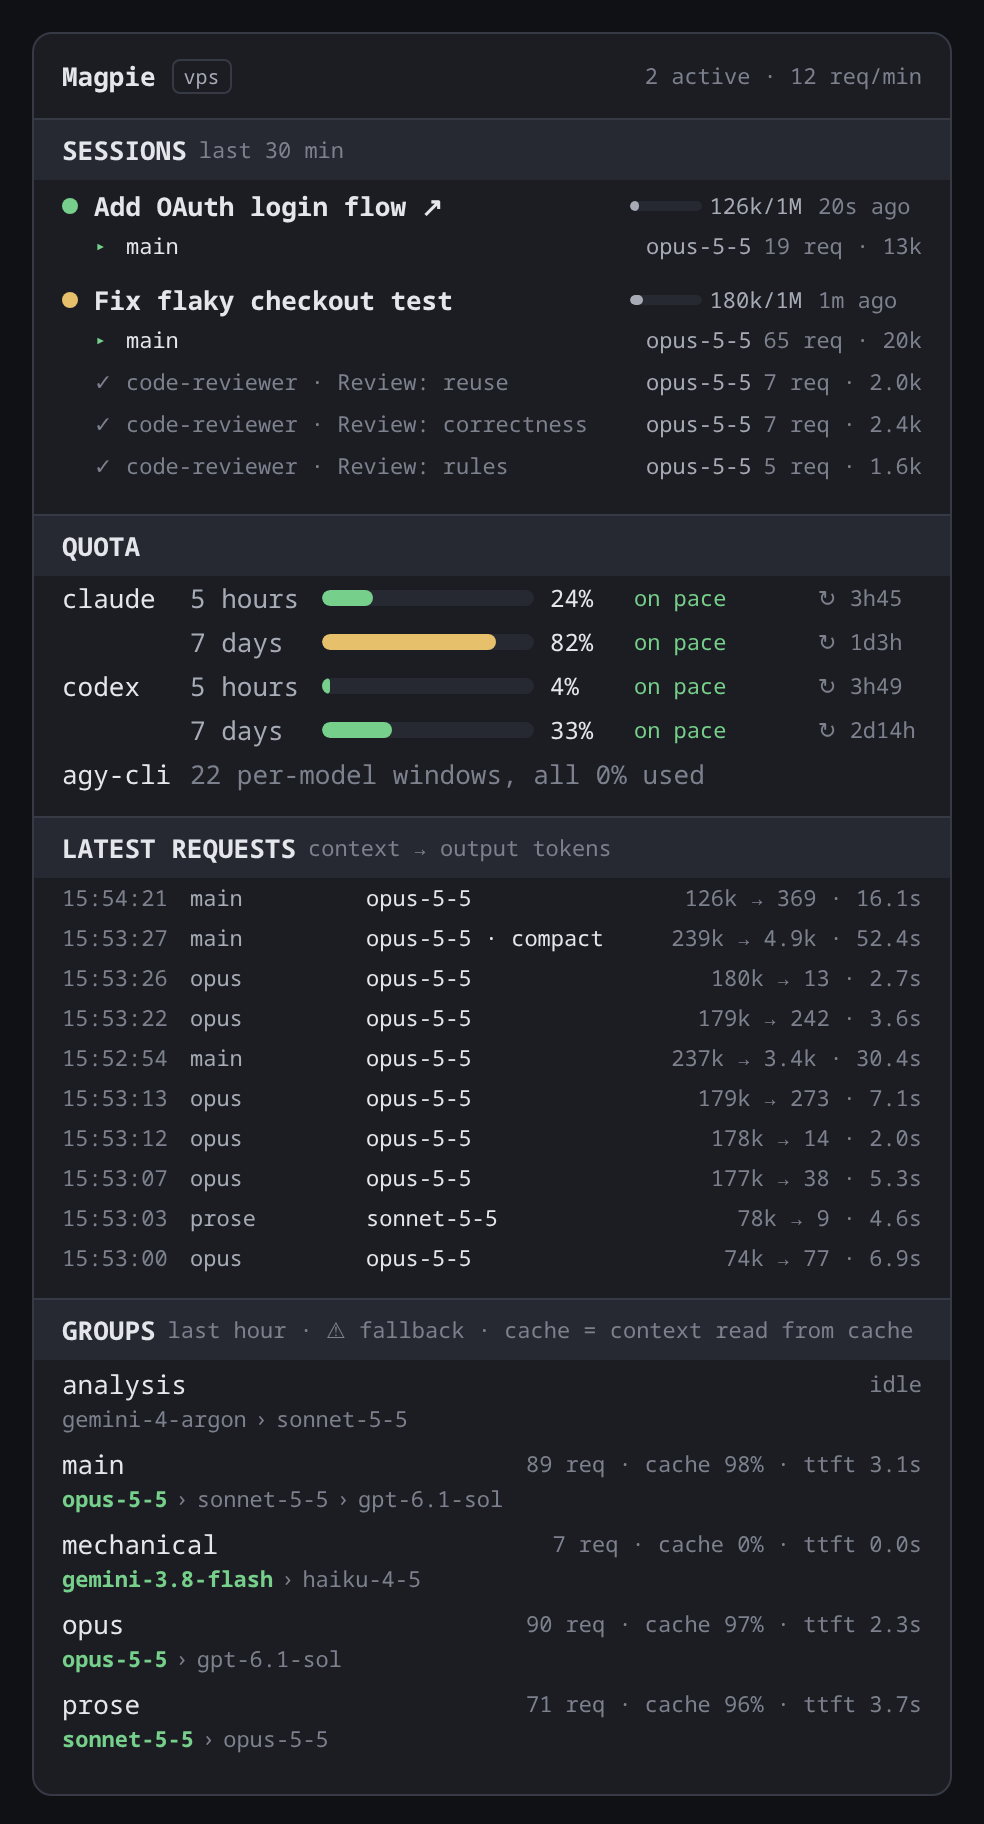
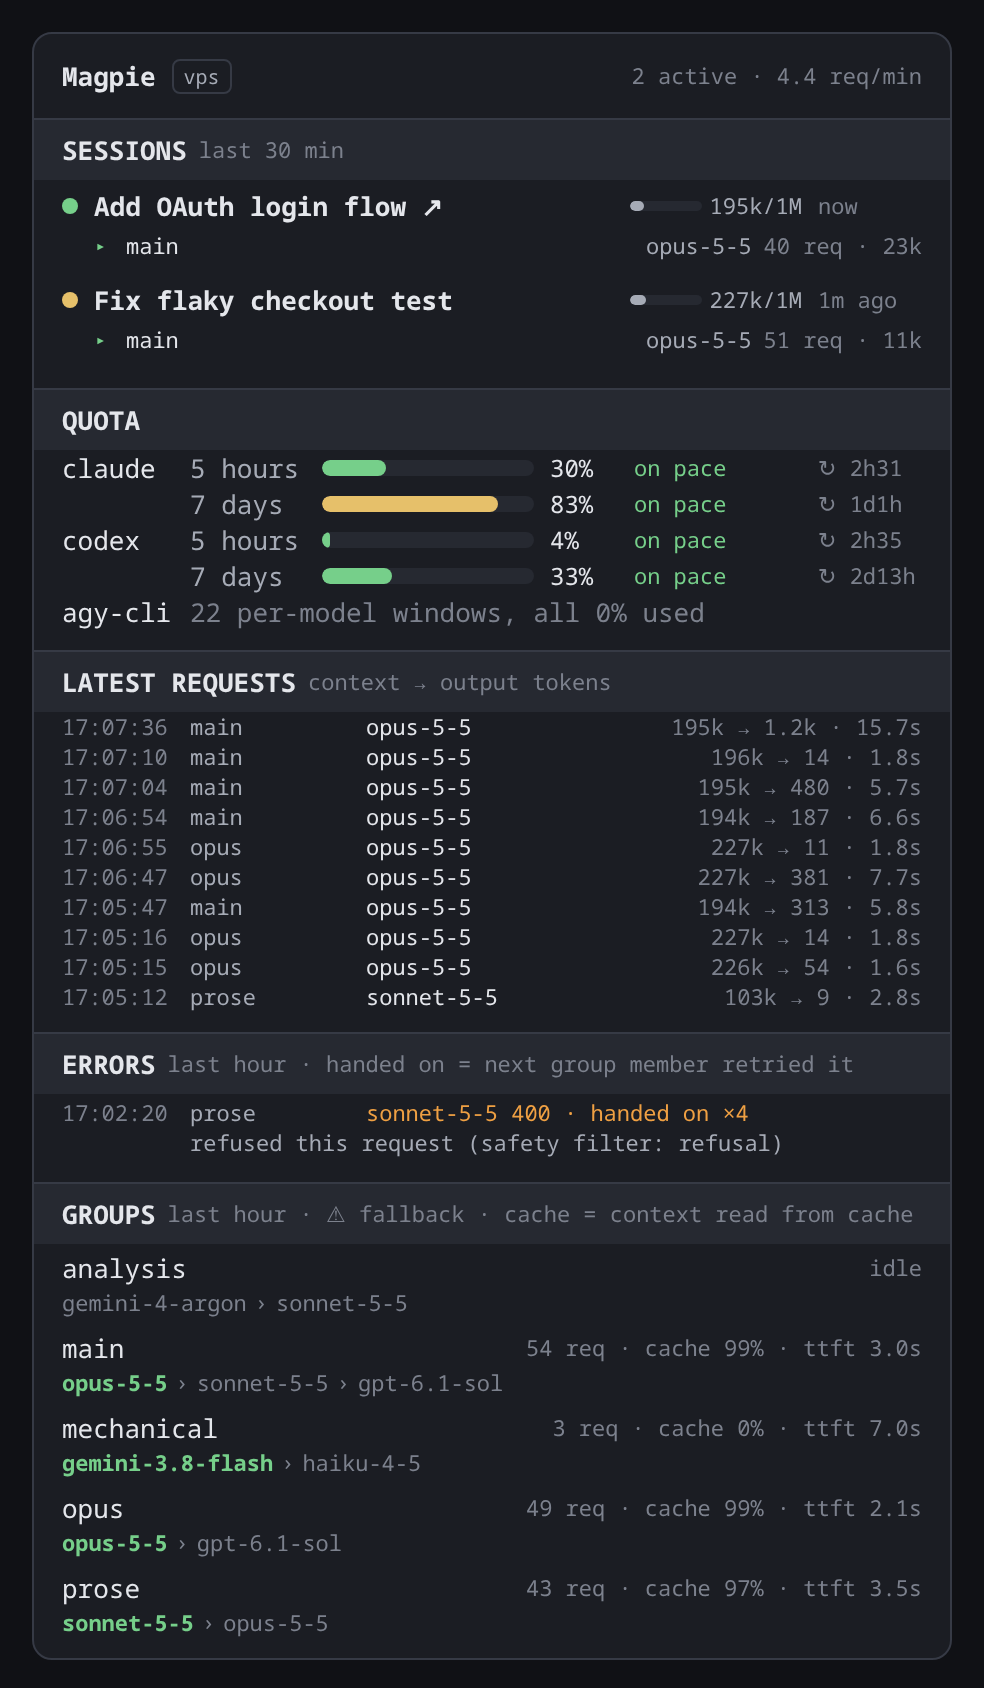
chore: release 0.2.0, screenshot with the Errors section

diff --git a/README.md b/README.md
@@ -6,7 +6,7 @@ A panel for [Herdr](https://herdr.dev/) ([GitHub](https://github.com/herdrdev)) 
 
 <p align="center">
   <img src="docs/images/panel.png" alt="The Magpie panel: sessions with their subagents, quota bars, latest requests and group fallback chains" width="460">
-  <br><sub>Mock render of the panel from real usage data, with session titles replaced. Herdr's own styling differs slightly.</sub>
+  <br><sub>Mock render of the panel from real usage data, with session titles replaced and the error message shortened. Herdr's own styling differs slightly.</sub>
 </p>
 
 ## Why

diff --git a/CHANGELOG.md b/CHANGELOG.md
@@ -2,6 +2,8 @@
 
 ## Unreleased
 
+## 0.2.0 (2026-11-09)
+
 - Headless `claude -p` sessions are labelled `headless · <command or first prompt line>` instead of `folder · id`.
 - Errors section: the hour's last 5 distinct errors with their message and a repeat count, handed-on ones marked as such.
 - An agent with failed requests shows its latest error message under it.

diff --git a/docs/panel.md b/docs/panel.md
@@ -2,7 +2,7 @@
 
 ![The Magpie panel](images/panel.png)
 
-*Mock render from real usage data, with session titles replaced.*
+*Mock render from real usage data, with session titles replaced and the error message shortened.*
 
 ## Header
 
